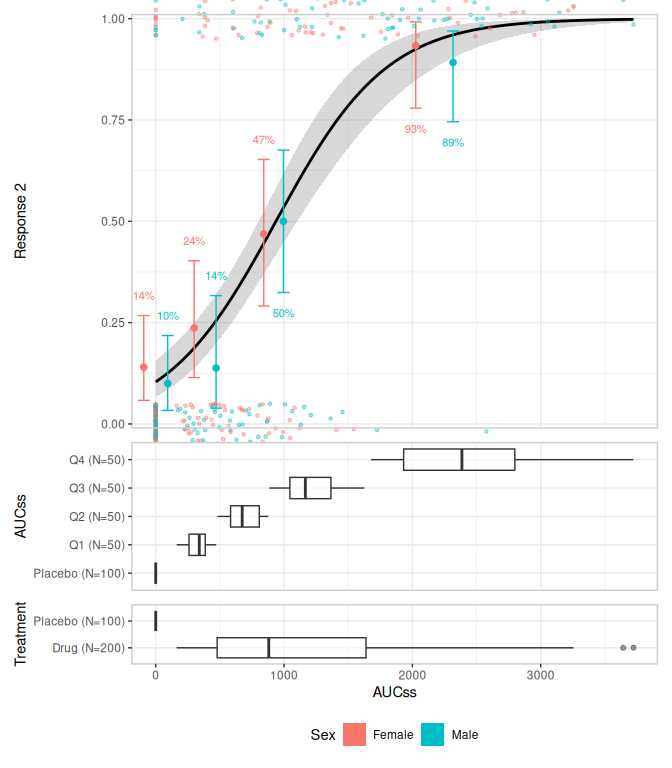
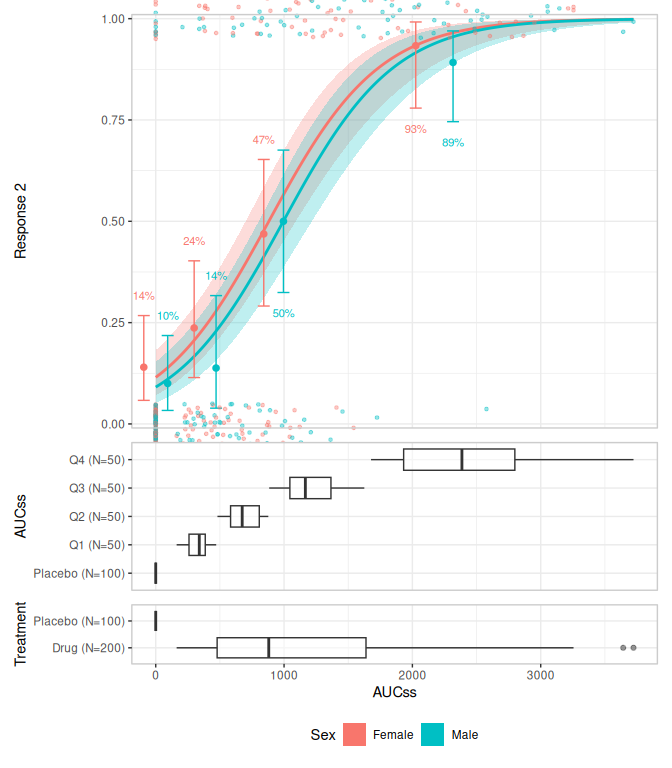
simplifies readme

Changed region(s): [[0.2188, 0.0, 0.9375, 0.5938], [0.2812, 0.0, 0.3125, 0.0625], [0.2188, 0.0, 0.25, 0.0625]]

diff --git a/README.md b/README.md
@@ -12,14 +12,15 @@ experimental](https://img.shields.io/badge/lifecycle-experimental-orange.svg)](h
 coverage](https://codecov.io/gh/djnavarro/erplots/graph/badge.svg)](https://app.codecov.io/gh/djnavarro/erplots)
 <!-- badges: end -->
 
-erplots provides a fluent mini-language for building exposure-response
-plots: model curves/ribbons, quantile-binned response-rate summaries,
-data strips, and grouped distribution panels. It is model-agnostic:
-erplots never fits a model itself. Instead, you fit a model with
-whatever package suits your workflow
+The erplots package provides a mini-language for building
+exposure-response plots: model curves/ribbons, quantile-binned
+response-rate summaries, data strips, and grouped distribution panels.
+It is model-agnostic: erplots never fits a model itself. Instead, you
+fit a model with whatever package suits your workflow
 (e.g. [erglm](https://github.com/djnavarro/erglm) for logistic
-regression), and pass the fitted object to `er_plot_add_model()`. Any
-model that implements `er_predict()` can be visualised; implementing
+regression), and pass the fitted object to `er_plot_add_model()`.
+
+Any model that implements `er_predict()` can be visualised; implementing
 `er_simulate()` and `er_summary()` additionally enables uncertainty
 spaghetti plots/VPCs and summary annotations (e.g. p-values). See
 `?er_model_interface`.
@@ -53,13 +54,10 @@ erglm_data |>
 ``` r
 
 mod2 <- erglm_model(ae2 ~ aucss + sex, erglm_data, family = binomial())
-mod2_marginal <- erglm_model(ae2 ~ aucss, erglm_data, family = binomial())
 
 plt <- erglm_data |> 
    er_plot(aucss, ae2, stratify_by = sex) |> 
-   # keep_strata = FALSE needs a model without the stratification
-   # variable as a term, so we pass `mod2_marginal` here
-   er_plot_add_model(mod2_marginal, keep_strata = FALSE) |> 
+   er_plot_add_model(mod2) |> 
    er_plot_add_quantiles(bins = 3) |> 
    er_plot_add_data() |> 
    er_plot_add_groups(group_by = c(aucss, treatment), keep_strata = FALSE)
@@ -81,17 +79,3 @@ plot(plt)
 ```
 
 <img src="man/figures/README-er-plot-2.png" alt="" width="100%" />
-
-## VPC plots
-
-``` r
-er_vpc_plot(erglm_data, exposure = aucss, response = ae2, group_by = aucss, model = mod2, seed = 1234)
-```
-
-<img src="man/figures/README-er-vpc-1.png" alt="" width="100%" />
-
-``` r
-er_vpc_plot(erglm_data, exposure = aucss, response = ae2, group_by = sex, model = mod2, seed = 1234)
-```
-
-<img src="man/figures/README-er-vpc-2.png" alt="" width="100%" />
